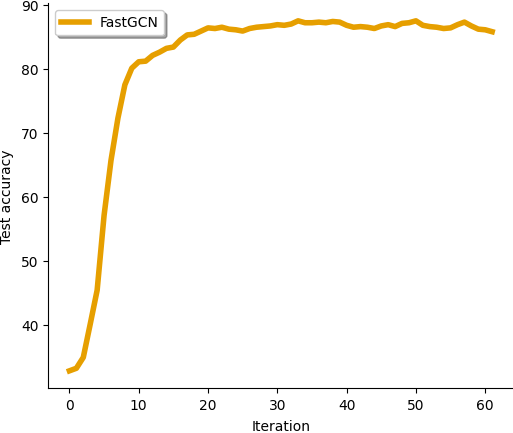
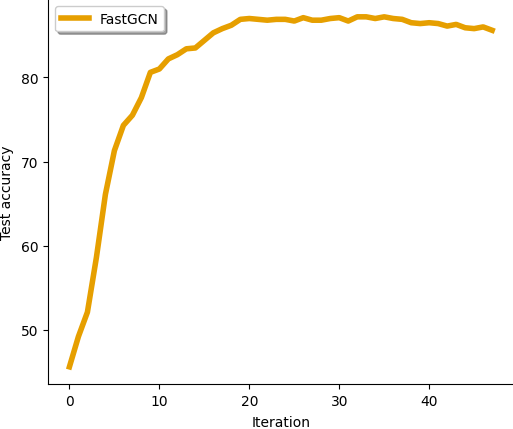
Change sampling procedure

diff --git a/models/fastgcn_model.py b/models/fastgcn_model.py
@@ -122,7 +122,7 @@ class FastGCN(nn.Module):
                                         replace=False)
 
             # Then compute the subgraphs
-            batch_adjs = self.get_subgraphs_unioned_sampling(init_batch=init_batch,
+            batch_adjs = self.get_subgraphs_concated_sampling(init_batch=init_batch,
                                                      batch_sizes=batch_sizes[1:],
                                                      csr_adj_mat=csr_mat)
 
@@ -254,6 +254,114 @@ class FastGCN(nn.Module):
 
             # Get the next layer of nodes
             new_nodes = np.unique(csr_adj_mat[batch[i], :].nonzero()[1])
+
+        # Initial layer of the adjacency matrix involves pre-computation,
+        # but we already store this, so we only need to slice!
+        adj_out_mats.append(batch[-1])
+
+        return adj_out_mats[::-1]
+
+    @torch.no_grad()
+    def get_subgraphs_concated_sampling(self, init_batch: typing.List[int], batch_sizes: typing.List[int],
+                                       csr_adj_mat: sp.csr_matrix) -> list:
+        """Here, we sample from the set of 1-hop neighbors and always include the base nodes"""
+
+        # Create a dummy version of the batch_sizes
+        batch_sizes.insert(0, 0)
+
+        # Get the initial batch
+        batch = [init_batch]
+        adj_out_mats = []
+
+        # Get the next layer of nodes
+        all_next_nodes = np.unique(csr_adj_mat[batch[0], :].nonzero()[1])
+
+        # Get only the subset of nodes that are 1-hop away
+        new_nodes = np.setdiff1d(all_next_nodes, batch[0])
+        old_nodes = np.setdiff1d(all_next_nodes, new_nodes)
+
+        # Loop over the remaining batches
+        for i in range(1, len(batch_sizes)):
+
+            # Save denominator to avoid re-computing
+            denom = sum(self.samp_probs[new_nodes])
+
+            # Save the probs
+            probs = self.samp_probs[new_nodes] / denom
+
+            # Get a batch
+            sampled = np.random.choice(new_nodes, size=min(batch_sizes[i], len(probs)),
+                                          replace=False, p=probs)
+
+            batch.append(np.concatenate((sampled, old_nodes)))
+
+            # Create the probability distribution over these nodes
+            subgraph_probs = np.concatenate((self.samp_probs[sampled] * len(sampled) / denom, np.ones(old_nodes.shape)))
+
+            # Save adjmats
+            adj_out_mats.append(csr_to_torch_coo(
+                csr_adj_mat[batch[i - 1], :][:, batch[i]].multiply(1. / subgraph_probs)).to(
+                self.device))
+
+            # Get the next layer of nodes
+            all_next_nodes = np.unique(csr_adj_mat[sampled, :].nonzero()[1])
+
+            # Get only the subset of nodes that are 1-hop away
+            new_nodes = np.setdiff1d(all_next_nodes, sampled)
+            old_nodes = np.setdiff1d(all_next_nodes, new_nodes)
+
+        # Initial layer of the adjacency matrix involves pre-computation,
+        # but we already store this, so we only need to slice!
+        adj_out_mats.append(batch[-1])
+
+        return adj_out_mats[::-1]
+
+    @torch.no_grad()
+    def get_subgraphs_union_init_batch_sampling(self, init_batch: typing.List[int], batch_sizes: typing.List[int],
+                                        csr_adj_mat: sp.csr_matrix) -> list:
+        """Here, we sample from the set of 1-hop neighbors and union that with the original training nodes"""
+
+        # Create a dummy version of the batch_sizes
+        batch_sizes.insert(0, 0)
+
+        # Get the initial batch
+        batch = [init_batch]
+        adj_out_mats = []
+
+        # Get the next layer of nodes
+        all_next_nodes = np.unique(csr_adj_mat[batch[0], :].nonzero()[1])
+
+        # Get only the subset of nodes that are 1-hop away
+        new_nodes = np.setdiff1d(all_next_nodes, batch[0])
+
+        # Loop over the remaining batches
+        for i in range(1, len(batch_sizes)):
+
+            # Save denominator to avoid re-computing
+            denom = sum(self.samp_probs[new_nodes])
+
+            # Save the probs
+            probs = self.samp_probs[new_nodes] / denom
+
+            # Get a batch
+            sampled = np.random.choice(new_nodes, size=min(batch_sizes[i], len(probs)),
+                                       replace=False, p=probs)
+
+            batch.append(np.concatenate((sampled, batch[0])))
+
+            # Create the probability distribution over these nodes
+            subgraph_probs = np.concatenate((self.samp_probs[sampled] * len(sampled) / denom, np.ones(batch[0].shape)))
+
+            # Save adjmats
+            adj_out_mats.append(csr_to_torch_coo(
+                csr_adj_mat[batch[i - 1], :][:, batch[i]].multiply(1. / subgraph_probs)).to(
+                self.device))
+
+            # Get the next layer of nodes
+            all_next_nodes = np.unique(csr_adj_mat[batch[i], :].nonzero()[1])
+
+            # Get only the subset of nodes that are 1-hop away
+            new_nodes = np.setdiff1d(all_next_nodes, batch[i])
 
         # Initial layer of the adjacency matrix involves pre-computation,
         # but we already store this, so we only need to slice!

diff --git a/ReadMe.md b/ReadMe.md
@@ -14,12 +14,12 @@ Experiments are performed on a Quadro RTX 5000.
 
 Here we discuss several training/implementation differences from the original FastGCN paper:
 
-1. **Sampling neighborhood**: it is well known that FastGCN can suffer from choosing nodes that are disconnected at each layer (see [2] below). Hence, we implement a version of FastGCN which chooses nodes at each layer from the set of 1-hop neighbors (including the current layer) of the current layer; such a scheme is similar to the LADIES algorithm of [2], but we do not re-compute the adjacency matrix (see line 5 in Algorithm 1 of [2]). Additionally, we sample _without_ replacement in this implementation.
+1. **Sampling neighborhood**: it is well known that FastGCN can suffer from choosing nodes that are disconnected at each layer (see [2] below). Hence, we implement a version of FastGCN which chooses nodes at each layer from the set of 1-hop neighbors of the current layer and union these nodes with the entire current layer; such a scheme is similar to the LADIES algorithm of [2], but we do not re-compute the adjacency matrix (see line 5 in Algorithm 1 of [2]). Additionally, we sample _without_ replacement in this implementation.
 2. **Pre-computation**: as remarked in [1], the initial layer of the GCN architecture is fixed relative to the gradient computations; hence we do _not_ perform sampling on the first layer of the GCN, but instead use all neighbor information at this layer (such a scheme is equivalent to pre-computing the initial layer).
 3. **Probability scaling**: equation (10) in [1] indicates the each node's update needs to be appropriately scaled when performing a forward pass of the network; since nodes are chosen from the 1-hop neighbors in this implementations (see 1. above), this distribution is no longer the _global_ distribution defined over all of the nodes, but rather the _local_ distribution defined over the set of 1-hop neighbor nodes. Such a subtlety deviates from the mathematical formulation of FastGCN, but results in _significant_ improvement in the area of testing accuracy.
 4. **Importance sampling**: we implement importance sampling by using the (squared) 2-norm of each column in the adjacency matrix.
 5. **Dataset split**: we follow the practice of [1] in terms of dataset training/validation/testing split: all nodes that do not belong to the testing or validation set are used as training nodes.
-6. **Batch/sample size**: all of our tests use a standard 2-layer GCN architecture; for all datasets, we compute the loss over a mini-batch of 256 training nodes and sample 400 nodes at the next layer (except for Reddit, which we sample 1024 nodes at the next layer). Notice there is no sampling after this (even though this is a 2-layer GCN) as we use pre-computation on the input layer.
+6. **Batch/sample size**: all of our tests use a standard 2-layer GCN architecture; for all datasets, we compute the loss over a mini-batch of 256 training nodes and sample 400 nodes at the next layer (except for Reddit, which uses a mini-batch of 1024 and samples 5120 nodes at the next layer). Notice there is no sampling after this (even though this is a 2-layer GCN) as we use pre-computation on the input layer.
 7. **Other hyperparameters**: we train all models for 200 iterations with the Adam optimizer using a learning rate of 0.01 and employ early stopping if the validation loss does not decrease for 10 iterations (except for Reddit, which is set to 50 iterations). Weight decay is applied (l_2 regularization), row features are normalized only for PubMed, and no dropout is applied. For Cora, PubMed, and CiteSeer the hidden dimension is 16. For Reddit, the hidden dimension is 128.
 8. **Inference**: we perform inference using all of the nodes in the network (i.e. a forward pass of the un-batched GCN model is used to perform inference); this is done for both computing the validation loss and computing the testing accuracy.
 
@@ -43,12 +43,12 @@ TRAINING INFORMATION:
 [BATCH] batch size: 256
 [SAMP] layer sample size: 400
 
-[STOP] early stopping at iteration: 76
+[STOP] early stopping at iteration: 57
 
 RESULTS:
-[LOSS] minimum loss: 0.3562300503253937
-[ACC] maximum micro F1 testing accuracy: 87.6 %
-[TIME] 0.924 seconds
+[LOSS] minimum loss: 0.13632288575172424
+[ACC] maximum micro F1 testing accuracy: 87.4 %
+[TIME] 0.8241 seconds
 ========================== ENDING TRAINING ==========================
 ```
 
@@ -61,10 +61,10 @@ We compare the current approach with the original GCN and report the _maximum te
 
 | Dataset | FastGCN | GCN |
 | --- | --- | --- |
-| Cora | 87.3% (0.8 s) | 87.2% (0.56 s) |
-| CiteSeer | 78.9% (0.59 s) | 78.7% (0.47 s) |
-| PubMed | 88.0% (1.5 s) | 88.5% (1.4 s) |
-| Reddit | 93.7% (21.8 s) | 94.8% (330.5 s) |
+| Cora | 87.4% (0.82 s) | 87.2% (0.56 s) |
+| CiteSeer | 78.8% (0.62 s) | 78.7% (0.47 s) |
+| PubMed | 88.3% (1.97 s) | 88.5% (1.4 s) |
+| Reddit | 94.47% (63.2 s) | 94.8% (330.5 s) |
 
 ## References
 
